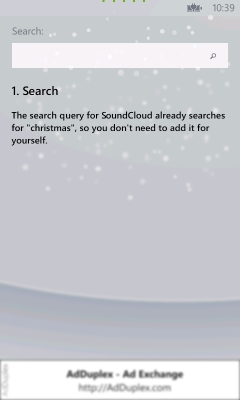
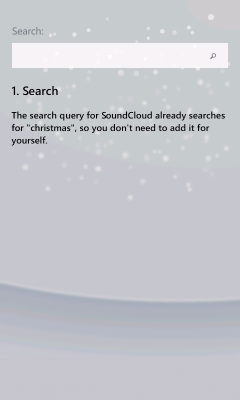
Updated screenshots for WP8 version. Updated layout. Updated download badge. Added QR code.

Changed region(s): [[0.0, 0.9, 1.0, 1.0], [0.875, 0.0, 0.9917, 0.03], [0.7583, 0.0, 0.8458, 0.03]]

diff --git a/index.html b/index.html
@@ -90,11 +90,16 @@
         <div class="sixteen columns" id="contentcontainer">
         
             <div class="four columns alpha">
-                <h2>Latest</h2>
-<!--    # Twitter Feed  #        -->    
-                <div class="tweet"></div> 
+                <h2>Features</h2>
+<!--    [[9]]    # App Feature List #        -->    
+                <ul class="featurelist">                
+                    <li class="BulletImage">Search <a href="http://soundcloud.com" title="SoundCloud">SoundCloud</a> for festive tracks</li>
+                    <li class="BulletImage">Preview tracks before you download</li>
+                    <li class="BulletImage">Download the track to your device</li>
+                    <li class="BulletImage">Add any track as a ringtone</li>
+                </ul>
 <!--    [[6]]    # Twitter Follow Button : Enter your twitter link below #        -->    
-                <a href="https://twitter.com/dereklakin" class="twitter-follow-button" data-show-count="false">Follow dereklakin</a>
+                <a href="https://twitter.com/dereklakin" class="twitter-follow-button" data-show-count="false">Follow @dereklakin</a>
             </div>
                 
             <div id="phonescreens" class="six columns">
@@ -109,16 +114,15 @@
                 </div>
 <!--    [[8]]    # App Marketplace Link - Find your app on the marketplace and insert the URL below#        -->    
                 <p class="downloadlink"><a href="http://windowsphone.com/s?appid=95296be2-ef75-44c9-955c-2c1c2d95c40f">Download for Windows Phone</a></p>
+                <p class="downloadlink" style="margin-top:20px;"><img alt="Download for Windows Phone" src="images/qr.png" style="width:129px;" /></p>
             </div>
             
             <div id="features" class="six columns omega">
-                <h2>Features</h2>
-<!--    [[9]]    # App Feature List #        -->    
-                <ul class="featurelist">                
-                    <li class="BulletImage">Search <a href="http://soundcloud.com" title="SoundCloud">SoundCloud</a> for festive tracks</li>
-                    <li class="BulletImage">Preview tracks before you download</li>
-                    <li class="BulletImage">Download the track to your device</li>
-                    <li class="BulletImage">Add any track as a ringtone</li>
+                <h2>Latest</h2>
+<!--    # Twitter Feed  #        -->    
+                <!--<div class="tweet"></div> -->
+                <ul class="changelog">
+                    <li>Updated for Windows Phone 8!</li>
                 </ul>
 <!--    [[10]]    # User Reviews & Quotes #        -->    
                 <blockquote class="user_quote">
@@ -140,8 +144,8 @@
 
     <!-- Load all the JS -->
     <script type="text/javascript" src="javascripts/jsLoader.js"></script>
-    <script src="//platform.twitter.com/widgets.js" type="text/javascript"></script>
-    <script type="text/javascript">
+    <!--<script src="//platform.twitter.com/widgets.js" type="text/javascript"></script>-->
+    <!--<script type="text/javascript">
 
     //    [[2]]    # Twitter Feed Options - see http://tweet.seaofclouds.com/ for details # 
         jQuery(function($){
@@ -158,16 +162,16 @@
             });
         });
 
-    </script>
+    </script>-->
 
     <script type="text/javascript">
 //    [[11]]    # UserVoice Widget code location
-      var uvOptions = {};
-      (function() {
-        var uv = document.createElement('script'); uv.type = 'text/javascript'; uv.async = true;
-        uv.src = ('https:' == document.location.protocol ? 'https://' : 'http://') + 'widget.uservoice.com/9NaqJ1wotcAUOe4GGuFt7g.js';
-        var s = document.getElementsByTagName('script')[0]; s.parentNode.insertBefore(uv, s);
-      })();
+      //var uvOptions = {};
+      //(function() {
+      //  var uv = document.createElement('script'); uv.type = 'text/javascript'; uv.async = true;
+      //  uv.src = ('https:' == document.location.protocol ? 'https://' : 'http://') + 'widget.uservoice.com/9NaqJ1wotcAUOe4GGuFt7g.js';
+      //  var s = document.getElementsByTagName('script')[0]; s.parentNode.insertBefore(uv, s);
+      //})();
 
 //    [[12]]    # Screenshot Slider options #        
         $(document).ready(function(){    

diff --git a/stylesheets/layout.css b/stylesheets/layout.css
@@ -96,8 +96,8 @@
 	p.downloadlink  a {
 		display:inline-block;
 		text-align: left;
-		width: 165px;
-		height: 54px;
+		width: 258px;
+		height: 67px;
 		text-indent: -9999px;
 		background:transparent url(../images/download.png) no-repeat;
 	}
